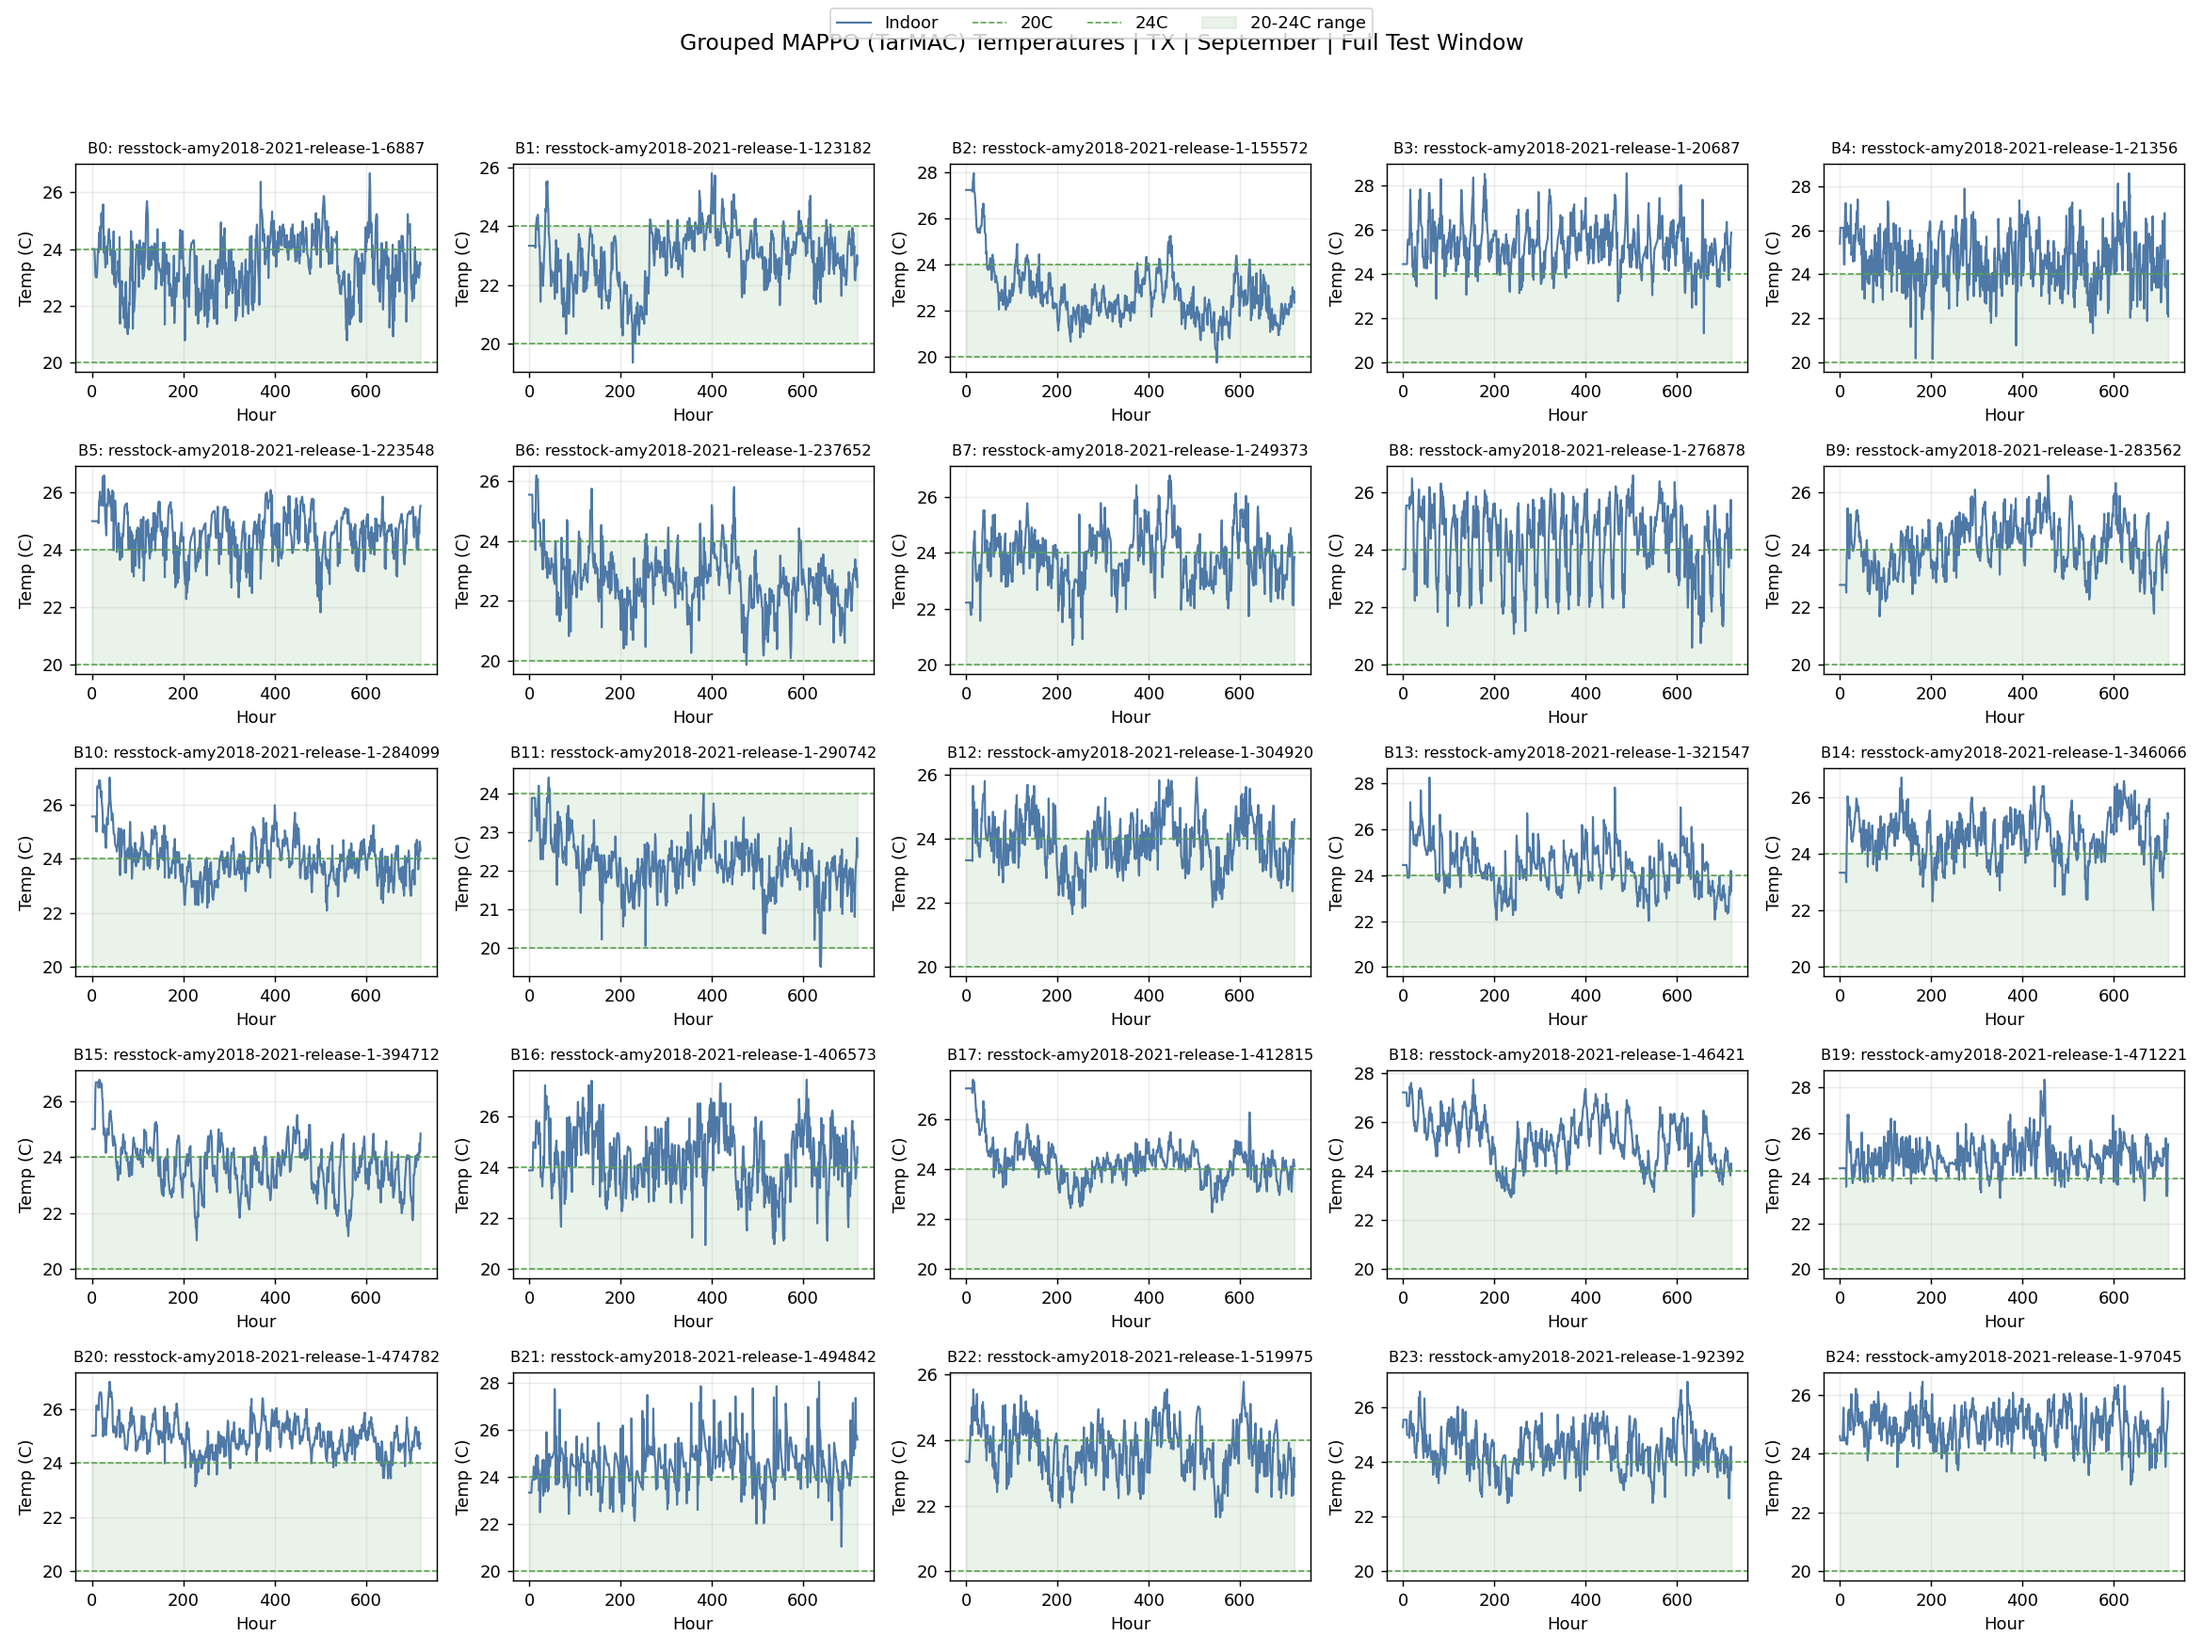
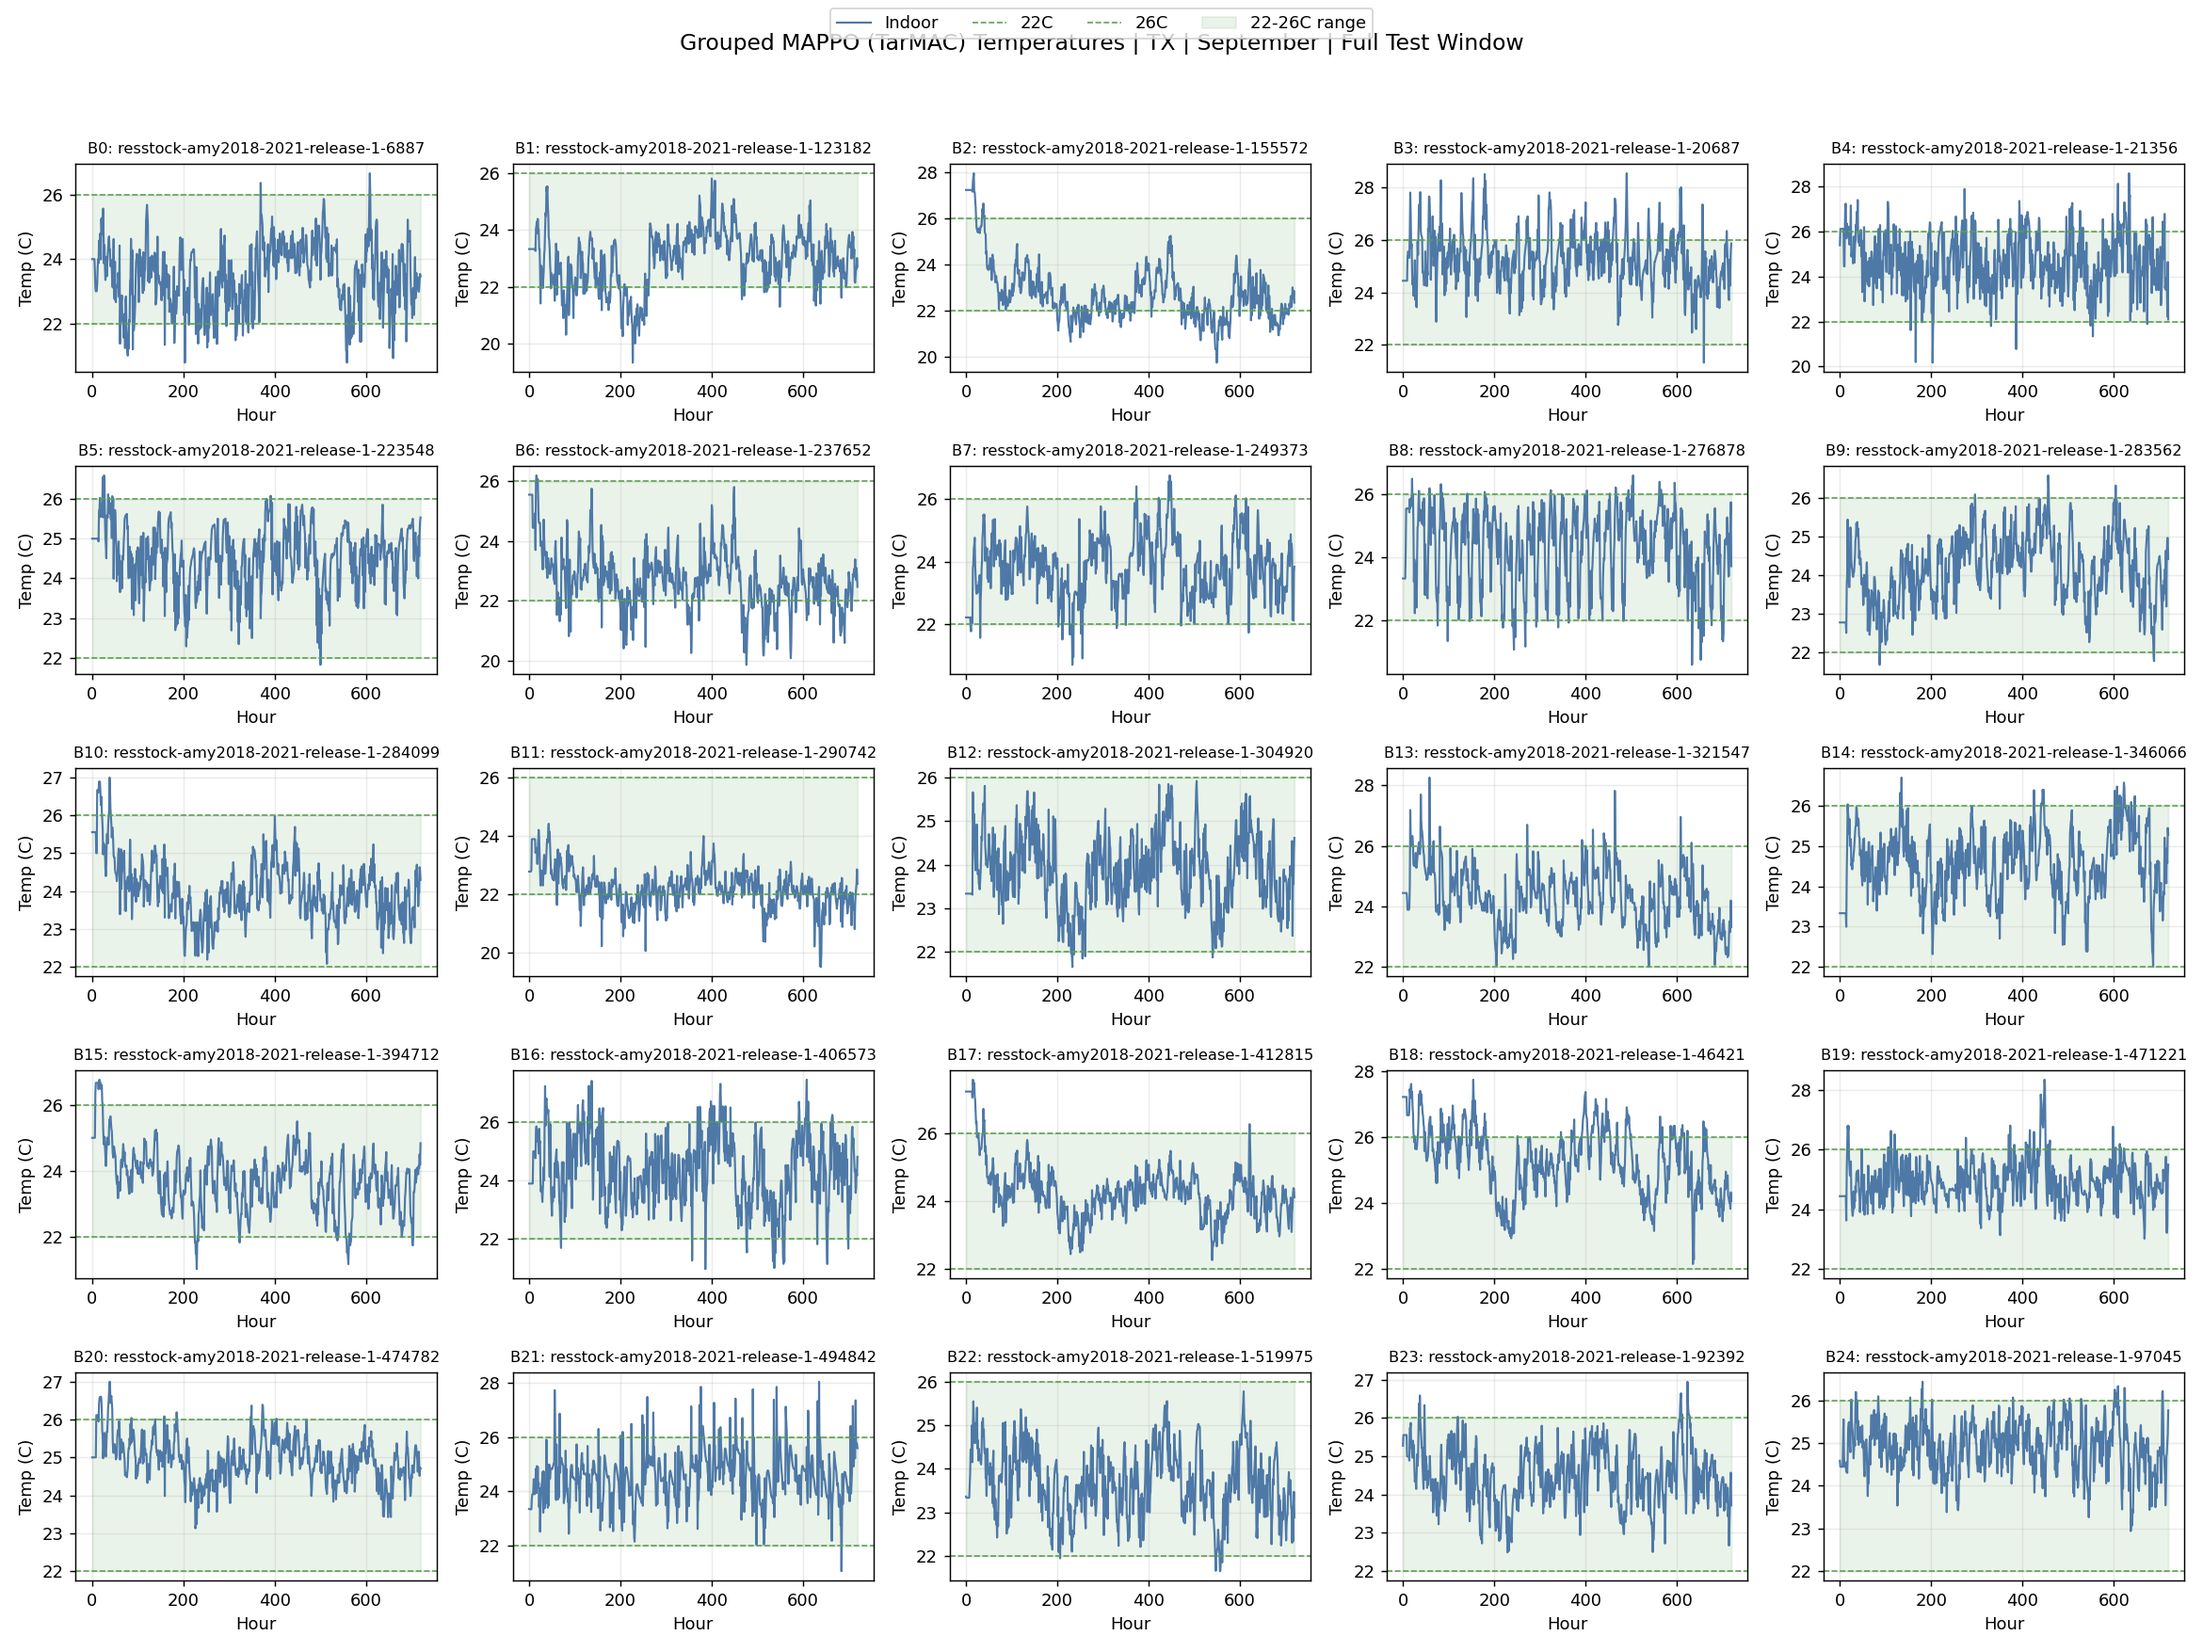
Enhance the CE1 three-metric reward function, support seasonal and setpoint comfort boundary modes, and add related test cases

diff --git a/mappo_grouped_tarmac_hybrid_grouping/train.py b/mappo_grouped_tarmac_hybrid_grouping/train.py
@@ -20,6 +20,7 @@ from typing import Any, Dict, List, Optional, Tuple
 import numpy as np
 import torch
 from annex96_reporting import collect_building_temperature_timeseries
+from annex96_rewards import build_ce1_reward_kwargs
 
 REPO_DIR = Path(__file__).resolve().parent.parent
 ONPOLICY = REPO_DIR / "on-policy-main"
@@ -96,6 +97,12 @@ class Config:
     entropy_coef: float = 0.01
     max_grad_norm: float = 10.0
 
+    weight_nmbe: float = 5.0
+    weight_cv_rmse: float = 5.0
+    weight_comfort: float = 1.0
+    comfort_binary_weight: float = 2.0
+    comfort_degree_weight: float = 0.5
+
     n_episodes: int = 100
     train_month: Optional[int] = None
     test_month: Optional[int] = None
@@ -120,6 +127,16 @@ class Config:
     comm_key_dim: int = 32
     comm_value_dim: int = 64
     comm_fusion_mode: str = "relu"
+
+
+def _build_reward_kwargs(cfg: Config) -> Dict[str, Any]:
+    return build_ce1_reward_kwargs(
+        weight_nmbe=cfg.weight_nmbe,
+        weight_cv_rmse=cfg.weight_cv_rmse,
+        weight_comfort=cfg.weight_comfort,
+        comfort_binary_weight=cfg.comfort_binary_weight,
+        comfort_degree_weight=cfg.comfort_degree_weight,
+    )
 
 
 def _build_grouped_components(
@@ -232,6 +249,11 @@ def _apply_checkpoint_model_config(cfg: Config, ckpt_meta: Dict[str, Any]) -> No
         "grouping_feature_set",
         "grouping_feature_month",
         "grouping_feature_columns",
+        "weight_nmbe",
+        "weight_cv_rmse",
+        "weight_comfort",
+        "comfort_binary_weight",
+        "comfort_degree_weight",
     ]:
         if field_name in saved_cfg:
             setattr(cfg, field_name, saved_cfg[field_name])
@@ -259,6 +281,7 @@ def evaluate_on_test(
         n_buildings=cfg.n_buildings,
         start_step=test_start,
         end_step=test_end,
+        reward_function_kwargs=_build_reward_kwargs(cfg),
     )
 
     n_agents = test_env.n_agents
@@ -446,6 +469,7 @@ def train(cfg: Config) -> None:
         n_buildings=cfg.n_buildings,
         start_step=train_start,
         end_step=train_end,
+        reward_function_kwargs=_build_reward_kwargs(cfg),
     )
     (
         mappo_args,
@@ -768,6 +792,7 @@ def run_test_only(cfg: Config) -> Dict[str, Any]:
         n_buildings=cfg.n_buildings,
         start_step=train_start,
         end_step=train_end,
+        reward_function_kwargs=_build_reward_kwargs(cfg),
     )
     (
         _mappo_args,
@@ -866,6 +891,12 @@ def parse_args() -> Config:
     parser.add_argument("--entropy_coef", type=float, default=0.01)
     parser.add_argument("--max_grad_norm", type=float, default=10.0)
 
+    parser.add_argument("--weight_nmbe", type=float, default=5.0)
+    parser.add_argument("--weight_cv_rmse", type=float, default=5.0)
+    parser.add_argument("--weight_comfort", type=float, default=1.0)
+    parser.add_argument("--comfort_binary_weight", type=float, default=2.0)
+    parser.add_argument("--comfort_degree_weight", type=float, default=0.5)
+
     parser.add_argument("--n_episodes", type=int, default=100)
     parser.add_argument("--train_month", type=int, default=None)
     parser.add_argument("--test_month", type=int, default=None)
@@ -922,6 +953,11 @@ def parse_args() -> Config:
         value_loss_coef=args.value_loss_coef,
         entropy_coef=args.entropy_coef,
         max_grad_norm=args.max_grad_norm,
+        weight_nmbe=args.weight_nmbe,
+        weight_cv_rmse=args.weight_cv_rmse,
+        weight_comfort=args.weight_comfort,
+        comfort_binary_weight=args.comfort_binary_weight,
+        comfort_degree_weight=args.comfort_degree_weight,
         n_episodes=args.n_episodes,
         train_month=args.train_month,
         test_month=args.test_month,

diff --git a/annex96_rewards/ce1.py b/annex96_rewards/ce1.py
@@ -48,8 +48,7 @@ class CE1ThreeMetricReward(RewardFunction):
     2. CV-RMSE surrogate:
        running root-mean-square portfolio tracking error normalized by mean target load.
     3. Thermal comfort surrogate:
-       per-building exceedance outside each building's setpoint comfort band,
-       falling back to the CE1 seasonal comfort band if setpoints are absent.
+       per-building exceedance outside the official CE1 seasonal comfort band.
 
     The tracking terms are portfolio-level and shared equally across buildings so
     every controller sees the same district objective. The comfort term stays
@@ -112,56 +111,17 @@ class CE1ThreeMetricReward(RewardFunction):
 
         return float(reference)
 
-    @staticmethod
-    def _optional_float(value: Any) -> Optional[float]:
-        if value is None:
-            return None
-        try:
-            output = float(value)
-        except (TypeError, ValueError):
-            return None
-        if not np.isfinite(output):
-            return None
-        return output
-
-    def _resolve_comfort_bounds(
-        self,
-        obs: Mapping[str, Union[int, float]],
-        fallback_lower_bound_c: float,
-        fallback_upper_bound_c: float,
-    ) -> Tuple[float, float]:
-        heating_sp = self._optional_float(obs.get("indoor_dry_bulb_temperature_heating_set_point"))
-        cooling_sp = self._optional_float(obs.get("indoor_dry_bulb_temperature_cooling_set_point"))
-        comfort_band = self._optional_float(obs.get("comfort_band"))
-
-        if comfort_band is None:
-            comfort_band = 0.0
-
-        lower_bound_c = fallback_lower_bound_c
-        upper_bound_c = fallback_upper_bound_c
-        if heating_sp is not None:
-            lower_bound_c = heating_sp - comfort_band
-        if cooling_sp is not None:
-            upper_bound_c = cooling_sp + comfort_band
-
-        return lower_bound_c, upper_bound_c
-
     def _compute_comfort_penalty(
         self,
         observations: List[Mapping[str, Union[int, float]]],
     ) -> Tuple[np.ndarray, float, float]:
         month = observations[0].get("month")
-        fallback_lower_bound_c, fallback_upper_bound_c = self._get_season_comfort_bounds(month)
+        lower_bound_c, upper_bound_c = self._get_season_comfort_bounds(month)
         penalties: List[float] = []
         exceed_flags: List[float] = []
 
         for obs in observations:
             indoor_temp = float(obs["indoor_dry_bulb_temperature"])
-            lower_bound_c, upper_bound_c = self._resolve_comfort_bounds(
-                obs,
-                fallback_lower_bound_c,
-                fallback_upper_bound_c,
-            )
             below = max(lower_bound_c - indoor_temp, 0.0)
             above = max(indoor_temp - upper_bound_c, 0.0)
             exceed_degrees = below + above

diff --git a/annex96_reporting.py b/annex96_reporting.py
@@ -238,6 +238,11 @@ def export_building_temperature_artifacts(
     temperature_df.sort_values(["building_id", "hour"]).to_csv(csv_path, index=False)
 
     label = algorithm_label or "Temperature Curves"
+    if str(climate).upper() == "TX":
+        comfort_low_c, comfort_high_c = 22.0, 26.0
+    else:
+        comfort_low_c, comfort_high_c = 20.0, 24.0
+    comfort_range_label = f"{comfort_low_c:g}-{comfort_high_c:g}C range"
     full_path = save_dir / f"{prefix}_building_temperatures_full.png"
     week1_path = save_dir / f"{prefix}_building_temperatures_week1.png"
 
@@ -269,9 +274,28 @@ def export_building_temperature_artifacts(
             indoor = building_frame["indoor_temperature"].to_numpy(dtype=float)
 
             ax.plot(hours, indoor, color="#4e79a7", linewidth=1.2, label="Indoor")
-            ax.axhline(20.0, color="#59a14f", linewidth=0.9, linestyle="--", label="20C")
-            ax.axhline(24.0, color="#59a14f", linewidth=0.9, linestyle="--", label="24C")
-            ax.fill_between(hours, 20.0, 24.0, color="#59a14f", alpha=0.12, label="20-24C range")
+            ax.axhline(
+                comfort_low_c,
+                color="#59a14f",
+                linewidth=0.9,
+                linestyle="--",
+                label=f"{comfort_low_c:g}C",
+            )
+            ax.axhline(
+                comfort_high_c,
+                color="#59a14f",
+                linewidth=0.9,
+                linestyle="--",
+                label=f"{comfort_high_c:g}C",
+            )
+            ax.fill_between(
+                hours,
+                comfort_low_c,
+                comfort_high_c,
+                color="#59a14f",
+                alpha=0.12,
+                label=comfort_range_label,
+            )
 
             if legend_handles is None:
                 legend_handles, legend_labels = ax.get_legend_handles_labels()

diff --git a/tests/test_ce1_reward.py b/tests/test_ce1_reward.py
@@ -1,0 +1,37 @@
+from annex96_rewards.ce1 import CE1ThreeMetricReward, build_ce1_reward_kwargs
+
+
+def _observation(*, temperature: float, month: int = 8):
+    return {
+        "month": month,
+        "indoor_dry_bulb_temperature": temperature,
+        "indoor_dry_bulb_temperature_heating_set_point": 22.0,
+        "indoor_dry_bulb_temperature_cooling_set_point": 22.0,
+        "comfort_band": 0.0,
+        "net_electricity_consumption": 0.0,
+        "district_load_target": 0.0,
+    }
+
+
+def _reward() -> CE1ThreeMetricReward:
+    return CE1ThreeMetricReward(
+        {"central_agent": False},
+        weight_nmbe=0.0,
+        weight_cv_rmse=0.0,
+        weight_comfort=1.0,
+        comfort_binary_weight=1.0,
+        comfort_degree_weight=1.0,
+        return_metadata=False,
+    )
+
+
+def test_seasonal_mode_uses_tx_22_to_26_band():
+    assert _reward().calculate([_observation(temperature=25.0)]) == [0.0]
+
+
+def test_tx_temperature_above_26_is_penalized():
+    assert _reward().calculate([_observation(temperature=27.0)]) == [-2.0]
+
+
+def test_reward_kwargs_do_not_expose_dynamic_bounds_mode():
+    assert "comfort_bounds_mode" not in build_ce1_reward_kwargs()

diff --git a/scripts/TX_DEGREE_HOURS_SCREEN_COMMANDS.md b/scripts/TX_DEGREE_HOURS_SCREEN_COMMANDS.md
@@ -1,0 +1,33 @@
+# TX degree-hours experiment commands
+
+Run these commands from the repository root on the Linux experiment machine:
+
+```bash
+chmod +x scripts/run_tarmac_3fA_tx_degree_hours_3seeds_parallel.sh
+chmod +x scripts/start_tarmac_3fA_tx_degree_hours_screen.sh
+bash scripts/start_tarmac_3fA_tx_degree_hours_screen.sh
+```
+
+The launcher creates a detached `screen` session named `tx_3fA_degree_hours`.
+All seeds `0 1 2` start concurrently and each seed is pinned to two CPU cores.
+
+Useful commands:
+
+```bash
+screen -ls
+screen -r tx_3fA_degree_hours
+```
+
+Inside `screen`, detach without stopping the experiment by pressing `Ctrl-a`, then `d`.
+
+To follow the individual seed logs from another shell:
+
+```bash
+tail -f experiment_queue_logs/tx_3fA_degree_hours_*/*.stdout.log
+```
+
+Optional overrides must be supplied to the screen launcher, for example:
+
+```bash
+EPISODES=500 USE_GPU=0 bash scripts/start_tarmac_3fA_tx_degree_hours_screen.sh
+```
